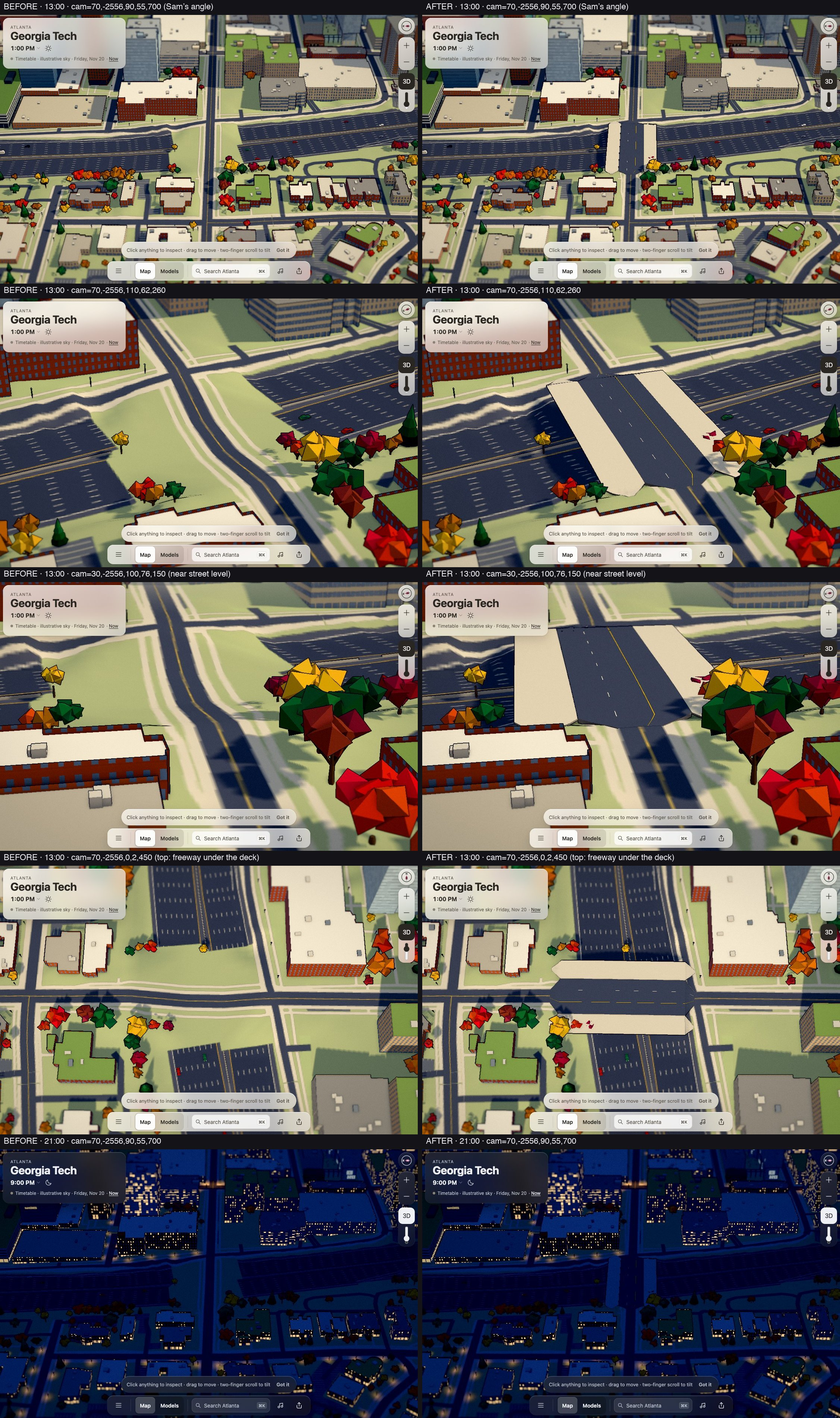
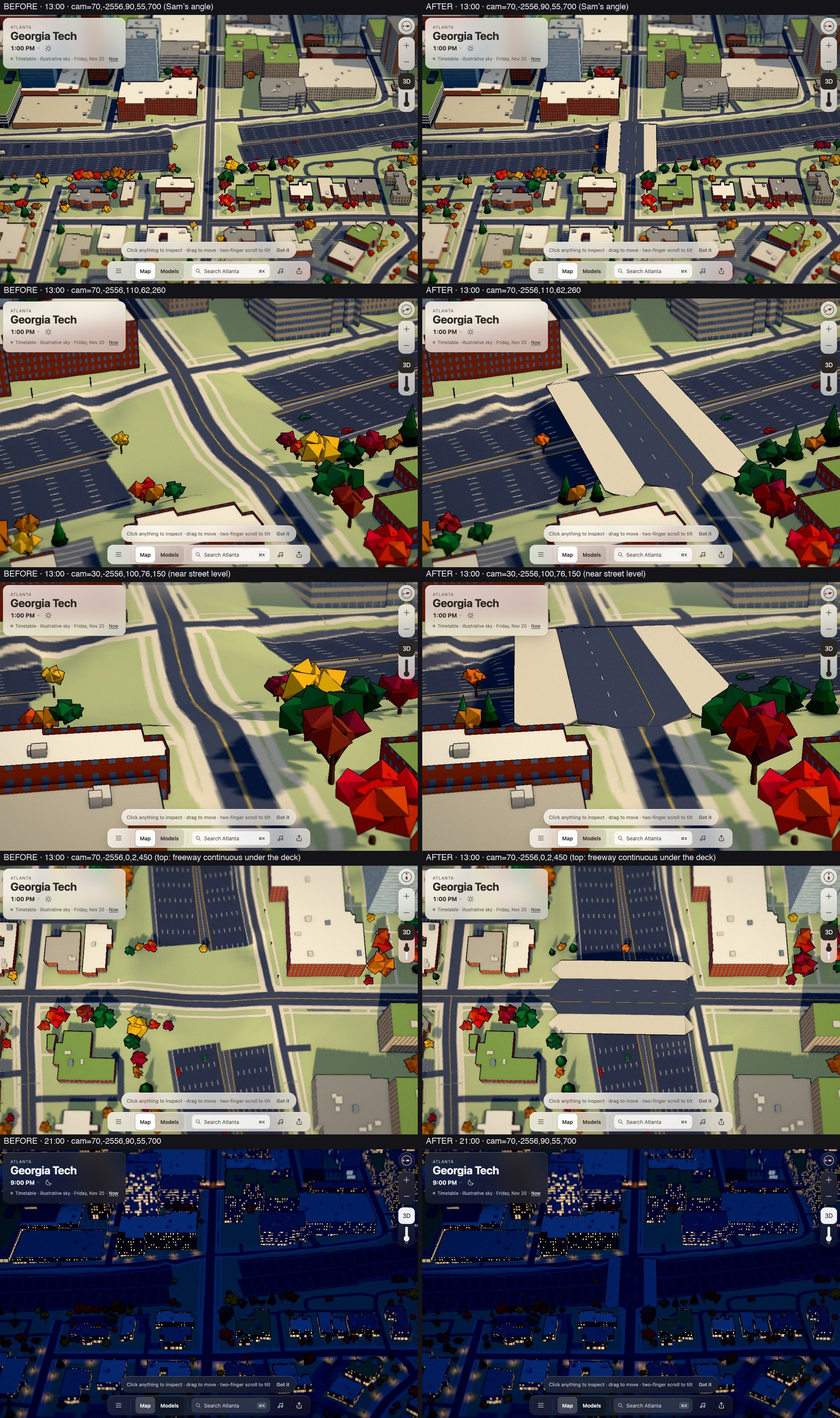
Keep canopy-map trees off the freeway under the Fifth Street deck
The canopy map measures crowns from the bare earth (the freeway below), so
the deck's plantings stood on the freeway and grew through the plazas.
Crowns inside the deck's 51 m outline are dropped for the Midtown rows,
keeping the low-tier rollout count consistent. From the Codex cross-review,
round 1. Before/after composite retaken on this build.

diff --git a/web/src/square-board/sections.ts b/web/src/square-board/sections.ts
@@ -1,7 +1,7 @@
 import { underpassFloor, underpassGround } from '../terrain/underpass';
 import { northAvenue } from '../terrain/north-ave';
 import { midtownConnectorGround } from '../terrain/midtown-connector-ground';
-import { midtownConnectorDecks } from '../terrain/midtown-connector-decks';
+import { midtownConnectorDecks, withoutLandBridgeTrees } from '../terrain/midtown-connector-decks';
 import { midtownConnectorPiers } from '../terrain/midtown-connector-piers';
 import { seventeenthAccess } from '../city/seventeenth-street';
 import { neighborhoodTrees, type NeighborhoodCanopy } from '../city/neighborhood-trees';
@@ -193,7 +193,8 @@ export async function addSection(direction: Section, mounted: Map<Board, Area>, 
         id === 'south-band' ? southConnectorTransport(context) :
         id === 'brookwood-south' || id === 'midtown-upper' ? seventeenthAccess(auburnTransport(context)) : auburnTransport(context);
       const city = id in rowBounds ? midtownConnectorDecks(contextWithDecks) : contextWithDecks;
-      const area = yield* buildDowntownTerrain(grid, city, neighborhoodTrees(context, quality), {
+      const canopy = id in rowBounds ? withoutLandBridgeTrees(context) : context;
+      const area = yield* buildDowntownTerrain(grid, city, neighborhoodTrees(canopy, quality), {
         quality, simpleLeafClumps: context.treeLowCount !== undefined,
         bottomY: mounted.get('downtown')!.bottomY, join: joins(id),
         separateBuilding: id === 'brookwood-station' ? 'osm:way:265350477' : id === 'north-band' ? options?.northBuilding : undefined,
@@ -201,7 +202,7 @@ export async function addSection(direction: Section, mounted: Map<Board, Area>, 
         underpass: id === 'midtown-south' ? northAvenue : undefined,
         openings: id === 'brookwood-station' ? northLinePortalSlots(grid) : undefined,
         // The tree rollout on canopy-map rows: planned from the row's full crown list.
-        rollout: context.treeLowCount !== undefined ? { row: id, lowCount: context.treeLowCount, allCrowns: context.trees, inAnsley } : undefined,
+        rollout: canopy.treeLowCount !== undefined ? { row: id, lowCount: canopy.treeLowCount, allCrowns: canopy.trees, inAnsley } : undefined,
         surface: takeSurface(patchIndex),
         // Trees join the City-wide batch only when the whole section mounts.
         deferTrees: true,

diff --git a/web/src/terrain/fifth-street-deck.test.ts b/web/src/terrain/fifth-street-deck.test.ts
@@ -2,7 +2,7 @@ import { existsSync, readFileSync } from 'node:fs';
 import { resolve } from 'node:path';
 import { describe, expect, it } from 'vitest';
 import { ribbons } from './connector-corridor';
-import { midtownConnectorDecks } from './midtown-connector-decks';
+import { midtownConnectorDecks, withoutLandBridgeTrees } from './midtown-connector-decks';
 import { cityRoadHeight } from '../city/road-height';
 import { connectorTrafficRoutes } from '../city/connector-traffic-routes';
 import landbridges from '../city/fixtures/midtown-connector/landbridges.json';
@@ -51,5 +51,17 @@ describe.skipIf(!staged)('the Fifth Street park deck over the Connector', () => 
     // Lidar over these shows continuous ground-class returns, no bridge deck: a real covered cut.
     const capitolGateway = new Set([39160886, 39160888, 39160889, 39160890, 435734520, 435734523, 580328711, 580328712]);
     expect(short.filter(id => !capitolGateway.has(id))).toEqual([]);
+  });
+
+  it('keeps the canopy map’s trees off the freeway under the deck', () => {
+    const staged = resolve(__dirname, '../../public/data/scene/square-board/midtown-central/context.json');
+    if (!existsSync(staged)) return;
+    const context = JSON.parse(readFileSync(staged, 'utf8')) as { trees: number[][]; treeLowCount?: number };
+    const under = (t: number[]) => t[0] > 20 && t[0] < 108 && t[1] > -2584 && t[1] < -2530;
+    expect(context.trees.filter(under).length).toBeGreaterThan(2);
+    const kept = withoutLandBridgeTrees(context);
+    expect(kept.trees.filter(under)).toEqual([]);
+    expect(context.trees.length - kept.trees.length).toBeLessThan(12);
+    if (context.treeLowCount !== undefined) expect(kept.treeLowCount).toBe(kept.trees.slice(0, kept.treeLowCount).length);
   });
 });

diff --git a/web/src/terrain/midtown-connector-decks.ts b/web/src/terrain/midtown-connector-decks.ts
@@ -80,3 +80,27 @@ export function midtownConnectorDecks(city: TerrainCity): TerrainCity {
   }
   return { ...city, terrainTransport: { ...transport, roads } };
 }
+
+/** The land bridges' outlines (their full measured width), to keep trees off the freeway below. */
+const landBridgeOutlines = landbridges.map(land => {
+  const pts = land.pts as P2[], half = LAND_BRIDGE.plazaOffset + LAND_BRIDGE.plazaWidth / 2;
+  return [...offset(pts, half), ...offset(pts, -half).reverse()];
+});
+function inside(x: number, z: number, ring: P2[]) {
+  let hit = false;
+  for (let i = 0, j = ring.length - 1; i < ring.length; j = i++) {
+    const [ax, az] = ring[i], [bx, bz] = ring[j];
+    if ((az > z) !== (bz > z) && x < (bx - ax) * (z - az) / (bz - az) + ax) hit = !hit;
+  }
+  return hit;
+}
+
+/** A Midtown row's canopy without crowns under a land bridge: the canopy map measures height
+ * from the bare earth, the freeway below, so deck plantings would stand on the freeway and grow
+ * through the deck. */
+export function withoutLandBridgeTrees<C extends { trees: number[][]; treeLowCount?: number }>(context: C): C {
+  const keep = context.trees.map(([x, z]) => !landBridgeOutlines.some(ring => inside(x, z, ring)));
+  if (keep.every(Boolean)) return context;
+  const low = context.treeLowCount === undefined ? undefined : keep.slice(0, context.treeLowCount).filter(Boolean).length;
+  return { ...context, trees: context.trees.filter((_, i) => keep[i]), treeLowCount: low };
+}
